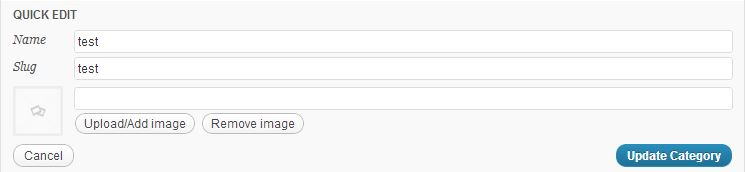
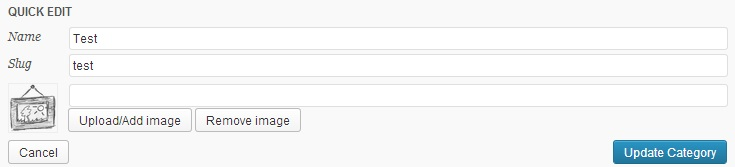
* New screenshots. * Updated language file. * Added support for both old and new Wordpress media uploader. * Added new submenu (Categories Images) in Settings menu. * Added new settings for excluding any taxonomies from the plugin. * Added new placeholder image.
git-svn-id: https://plugins.svn.wordpress.org/categories-images/trunk@726519 b8457f37-d9ea-0310-8a92-e5e31aec5664

diff --git a/categories-images.php b/categories-images.php
@@ -4,24 +4,30 @@ Plugin Name: Categories Images
 Plugin URI: http://zahlan.net/blog/2012/06/categories-images/
 Description: Categories Images Plugin allow you to add an image to category or any custom term.
 Author: Muhammad Said El Zahlan
-Version: 2.2.4
+Version: 2.3
 Author URI: http://zahlan.net/
 */
 ?>
 <?php
-if ( ! defined( 'Z_PLUGIN_URL' ) )
-	define( 'Z_PLUGIN_URL', untrailingslashit( plugins_url( '', __FILE__ ) ) );
+if (!defined('Z_PLUGIN_URL'))
+	define('Z_PLUGIN_URL', untrailingslashit(plugins_url('', __FILE__)));
 
-define( 'Z_IMAGE_PLACEHOLDER', Z_PLUGIN_URL . "/images/placeholder.png");
+define('Z_IMAGE_PLACEHOLDER', Z_PLUGIN_URL."/images/placeholder.png");
 
 // l10n
-load_plugin_textdomain( 'zci', false, 'categories-images/languages' );
+load_plugin_textdomain('zci', FALSE, 'categories-images/languages');
 
 add_action('admin_init', 'z_init');
 function z_init() {
 	$z_taxonomies = get_taxonomies();
 	if (is_array($z_taxonomies)) {
-	    foreach ($z_taxonomies as $z_taxonomy ) {
+		$zci_options = get_option('zci_options');
+		if (empty($zci_options['excluded_taxonomies']))
+			$zci_options['excluded_taxonomies'] = array();
+		
+	    foreach ($z_taxonomies as $z_taxonomy) {
+			if (in_array($z_taxonomy, $zci_options['excluded_taxonomies']))
+				continue;
 	        add_action($z_taxonomy.'_add_form_fields', 'z_add_texonomy_field');
 			add_action($z_taxonomy.'_edit_form_fields', 'z_edit_texonomy_field');
 			add_filter( 'manage_edit-' . $z_taxonomy . '_columns', 'z_taxonomy_columns' );
@@ -42,8 +48,13 @@ function z_add_style() {
 
 // add image field in add form
 function z_add_texonomy_field() {
-wp_enqueue_style('thickbox');
-wp_enqueue_script('thickbox');
+	if (get_bloginfo('version') >= 3.5)
+		wp_enqueue_media();
+	else {
+		wp_enqueue_style('thickbox');
+		wp_enqueue_script('thickbox');
+	}
+	
 	echo '<div class="form-field">
 		<label for="taxonomy_image">' . __('Image', 'zci') . '</label>
 		<input type="text" name="taxonomy_image" id="taxonomy_image" value="" />
@@ -54,8 +65,13 @@ wp_enqueue_script('thickbox');
 
 // add image field in edit form
 function z_edit_texonomy_field($taxonomy) {
-	wp_enqueue_style('thickbox');
-	wp_enqueue_script('thickbox');
+	if (get_bloginfo('version') >= 3.5)
+		wp_enqueue_media();
+	else {
+		wp_enqueue_style('thickbox');
+		wp_enqueue_script('thickbox');
+	}
+	
 	if (z_taxonomy_image_url( $taxonomy->term_id, TRUE ) == Z_IMAGE_PLACEHOLDER) 
 		$image_text = "";
 	else
@@ -71,37 +87,66 @@ function z_edit_texonomy_field($taxonomy) {
 // upload using wordpress upload
 function z_script() {
 	return '<script type="text/javascript">
-	    jQuery(document).ready(function() {
-			jQuery(".z_upload_image_button").click(function() {
-				upload_button = jQuery(this);
-				tb_show("", "media-upload.php?type=image&amp;TB_iframe=true");
-				return false;
-			});
-			jQuery(".z_remove_image_button").click(function() {
-				jQuery("#taxonomy_image").val("");
-				jQuery(this).parent().siblings(".title").children("img").attr("src","' . Z_IMAGE_PLACEHOLDER . '");
-				jQuery(".inline-edit-col :input[name=\'taxonomy_image\']").val("");
-				return false;
-			});
-			window.send_to_editor = function(html) {
-				imgurl = jQuery("img",html).attr("src");
-				if (upload_button.parent().prev().children().hasClass("tax_list")) {
-					upload_button.parent().prev().children().val(imgurl);
-					upload_button.parent().prev().prev().children().attr("src", imgurl);
+	    jQuery(document).ready(function($) {
+			var wordpress_ver = "'.get_bloginfo("version").'", upload_button;
+			$(".z_upload_image_button").click(function() {
+				upload_button = $(this);
+				var frame;
+				if (wordpress_ver >= "3.5") {
+					event.preventDefault();
+					if (frame) {
+						frame.open();
+						return;
+					}
+					frame = wp.media();
+					frame.on( "select", function() {
+						// Grab the selected attachment.
+						var attachment = frame.state().get("selection").first();
+						frame.close();
+						if (upload_button.parent().prev().children().hasClass("tax_list")) {
+							upload_button.parent().prev().children().val(attachment.attributes.url);
+							upload_button.parent().prev().prev().children().attr("src", attachment.attributes.url);
+						}
+						else
+							$("#taxonomy_image").val(attachment.attributes.url);
+					});
+					frame.open();
 				}
-				else
-					jQuery("#taxonomy_image").val(imgurl);
-				tb_remove();
+				else {
+					tb_show("", "media-upload.php?type=image&amp;TB_iframe=true");
+					return false;
+				}
+			});
+			
+			$(".z_remove_image_button").click(function() {
+				$("#taxonomy_image").val("");
+				$(this).parent().siblings(".title").children("img").attr("src","' . Z_IMAGE_PLACEHOLDER . '");
+				$(".inline-edit-col :input[name=\'taxonomy_image\']").val("");
+				return false;
+			});
+			
+			if (wordpress_ver < "3.5") {
+				window.send_to_editor = function(html) {
+					imgurl = $("img",html).attr("src");
+					if (upload_button.parent().prev().children().hasClass("tax_list")) {
+						upload_button.parent().prev().children().val(imgurl);
+						upload_button.parent().prev().prev().children().attr("src", imgurl);
+					}
+					else
+						$("#taxonomy_image").val(imgurl);
+					tb_remove();
+				}
 			}
-			jQuery(".editinline").live("click", function(){  
-			    var tax_id = jQuery(this).parents("tr").attr("id").substr(4);
-			    var thumb = jQuery("#tag-"+tax_id+" .thumb img").attr("src");
+			
+			$(".editinline").live("click", function(){  
+			    var tax_id = $(this).parents("tr").attr("id").substr(4);
+			    var thumb = $("#tag-"+tax_id+" .thumb img").attr("src");
 				if (thumb != "' . Z_IMAGE_PLACEHOLDER . '") {
-					jQuery(".inline-edit-col :input[name=\'taxonomy_image\']").val(thumb);
+					$(".inline-edit-col :input[name=\'taxonomy_image\']").val(thumb);
 				} else {
-					jQuery(".inline-edit-col :input[name=\'taxonomy_image\']").val("");
+					$(".inline-edit-col :input[name=\'taxonomy_image\']").val("");
 				}
-				jQuery(".inline-edit-col .title img").attr("src",thumb);
+				$(".inline-edit-col .title img").attr("src",thumb);
 			    return false;  
 			});  
 	    });
@@ -194,4 +239,53 @@ if ( strpos( $_SERVER['SCRIPT_NAME'], 'edit-tags.php' ) > 0 ) {
 	add_filter("attribute_escape", "z_change_insert_button_text", 10, 2);
 }
 
-?>
+// New menu submenu for plugin options in Settings menu
+add_action('admin_menu', 'z_options_menu');
+function z_options_menu() {
+	add_options_page(__('Categories Images settings', 'zci'), __('Categories Images', 'zci'), 'manage_options', 'zci-options', 'zci_options');
+	add_action('admin_init', 'z_register_settings');
+}
+
+// Register plugin settings
+function z_register_settings() {
+	register_setting('zci_options', 'zci_options', 'z_options_validate');
+	add_settings_section('zci_settings', __('Categories Images settings', 'zci'), 'z_section_text', 'zci-options');
+	add_settings_field('z_excluded_taxonomies', __('Excluded Taxonomies', 'zci'), 'z_excluded_taxonomies', 'zci-options', 'zci_settings');
+}
+
+// Settings section description
+function z_section_text() {
+	echo '<p>'.__('Please select the taxonomies you want to exclude it from Categories Images plugin', 'zci').'</p>';
+}
+
+// Excluded taxonomies checkboxs
+function z_excluded_taxonomies() {
+	$options = get_option('zci_options');
+	$disabled_taxonomies = array('nav_menu', 'link_category', 'post_format');
+	foreach (get_taxonomies() as $tax) : if (in_array($tax, $disabled_taxonomies)) continue; ?>
+		<input type="checkbox" name="zci_options[excluded_taxonomies][<?php echo $tax ?>]" value="<?php echo $tax ?>" <?php checked(isset($options['excluded_taxonomies'][$tax])); ?> /> <?php echo $tax ;?><br />
+	<?php endforeach;
+}
+
+// Validating options
+function z_options_validate($input) {
+	return $input;
+}
+
+// Plugin option page
+function zci_options() {
+	if (!current_user_can('manage_options'))
+		wp_die(__( 'You do not have sufficient permissions to access this page.', 'zci'));
+		$options = get_option('zci_options');
+	?>
+	<div class="wrap">
+		<?php screen_icon(); ?>
+		<h2><?php _e('Categories Images', 'zci'); ?></h2>
+		<form method="post" action="options.php">
+			<?php settings_fields('zci_options'); ?>
+			<?php do_settings_sections('zci-options'); ?>
+			<?php submit_button(); ?>
+		</form>
+	</div>
+<?php
+}
